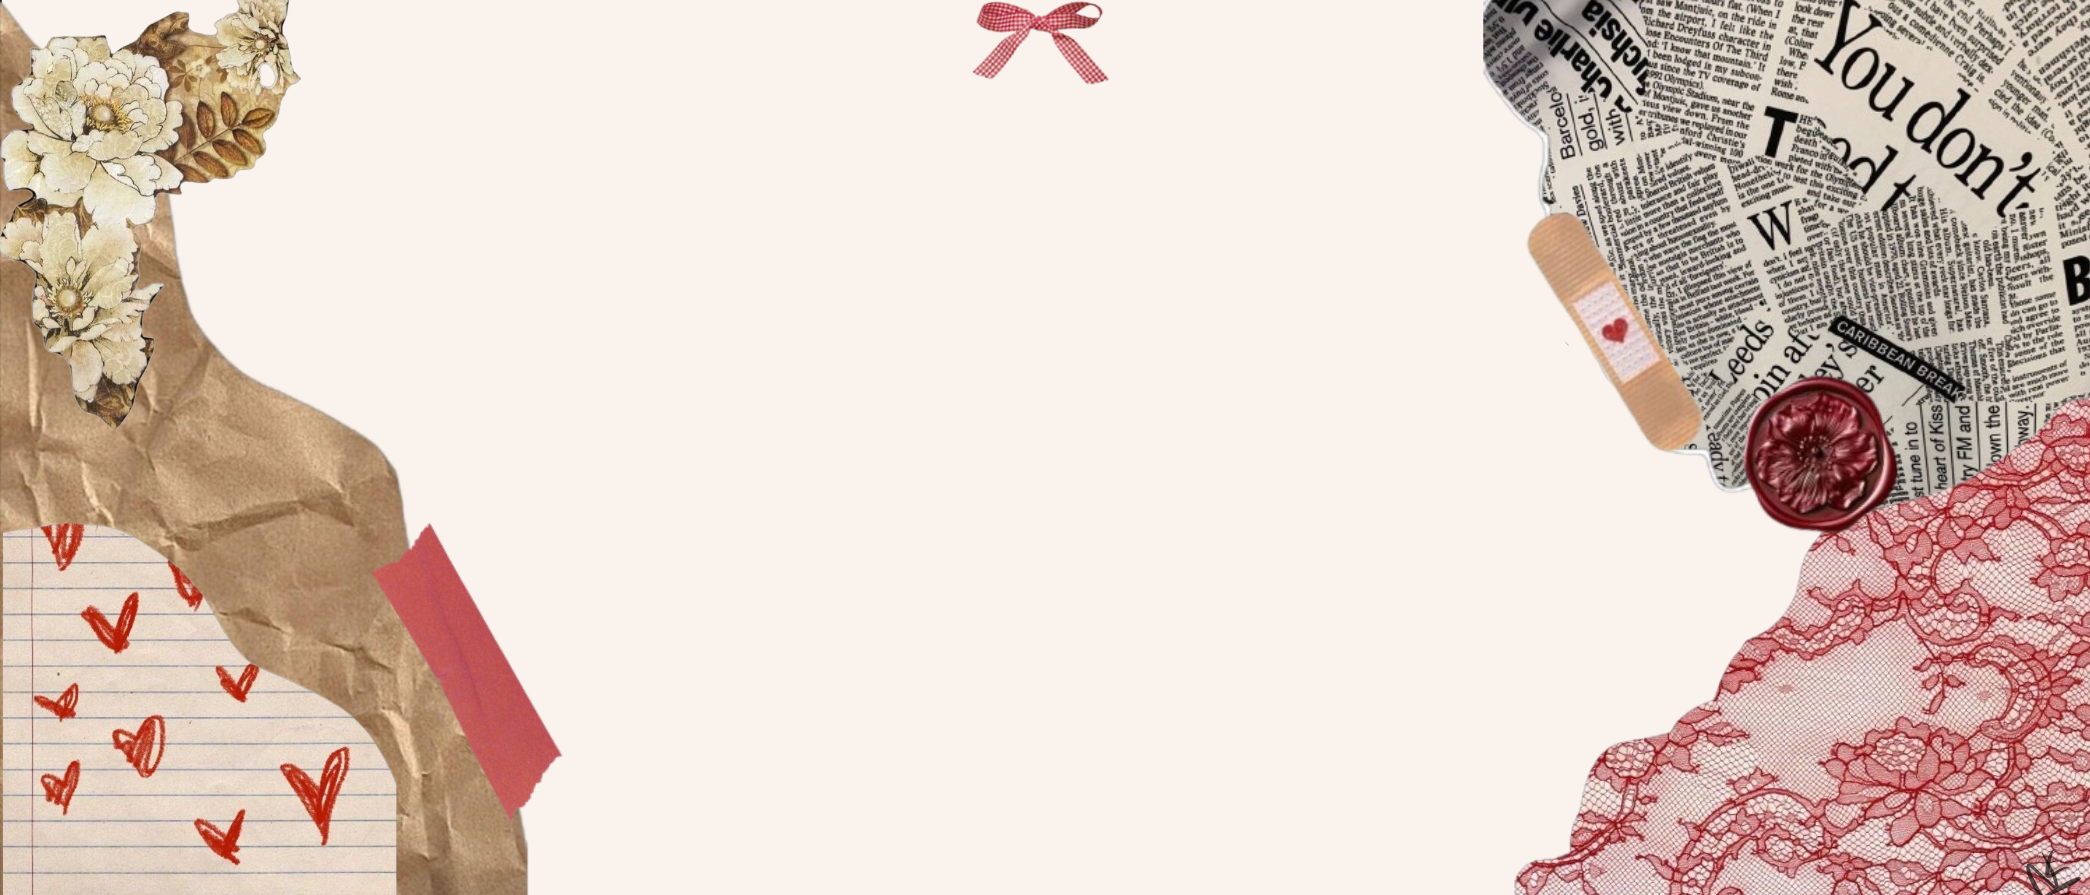
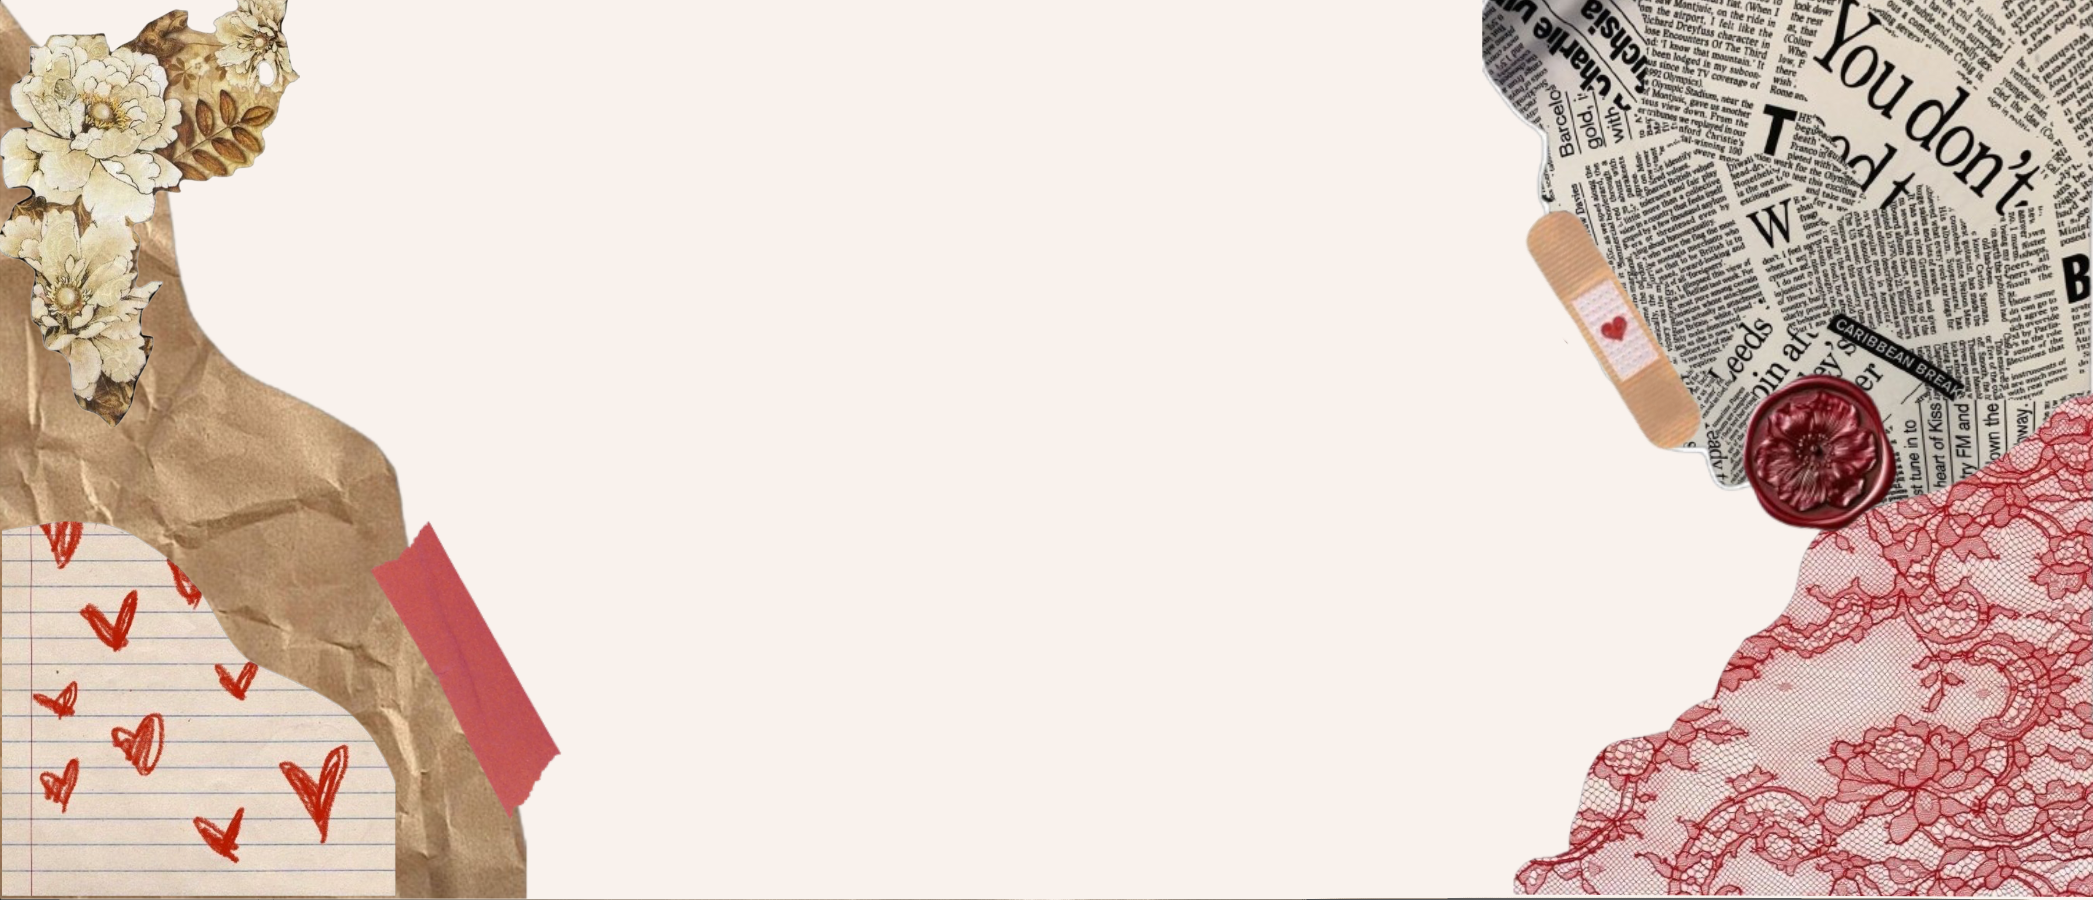
Last debugging

diff --git a/index-style.css b/index-style.css
@@ -7,7 +7,7 @@ body {
       font-family: 'Share Tech Mono', monospace;
       text-align: center;
       background-image: url("assets/wallpaper2.jpeg");
-      background-size: cover;
+      background-size: 102%;
       background-attachment: fixed;
     }
 

diff --git a/style.css b/style.css
@@ -4,7 +4,7 @@ html {
 
 body {
   background-image: url("assets/wallpaper.png");
-  background-size: cover;
+  background-size: 102%;
   background-attachment: fixed;
   margin: 10px;
   margin-top: 0px;
